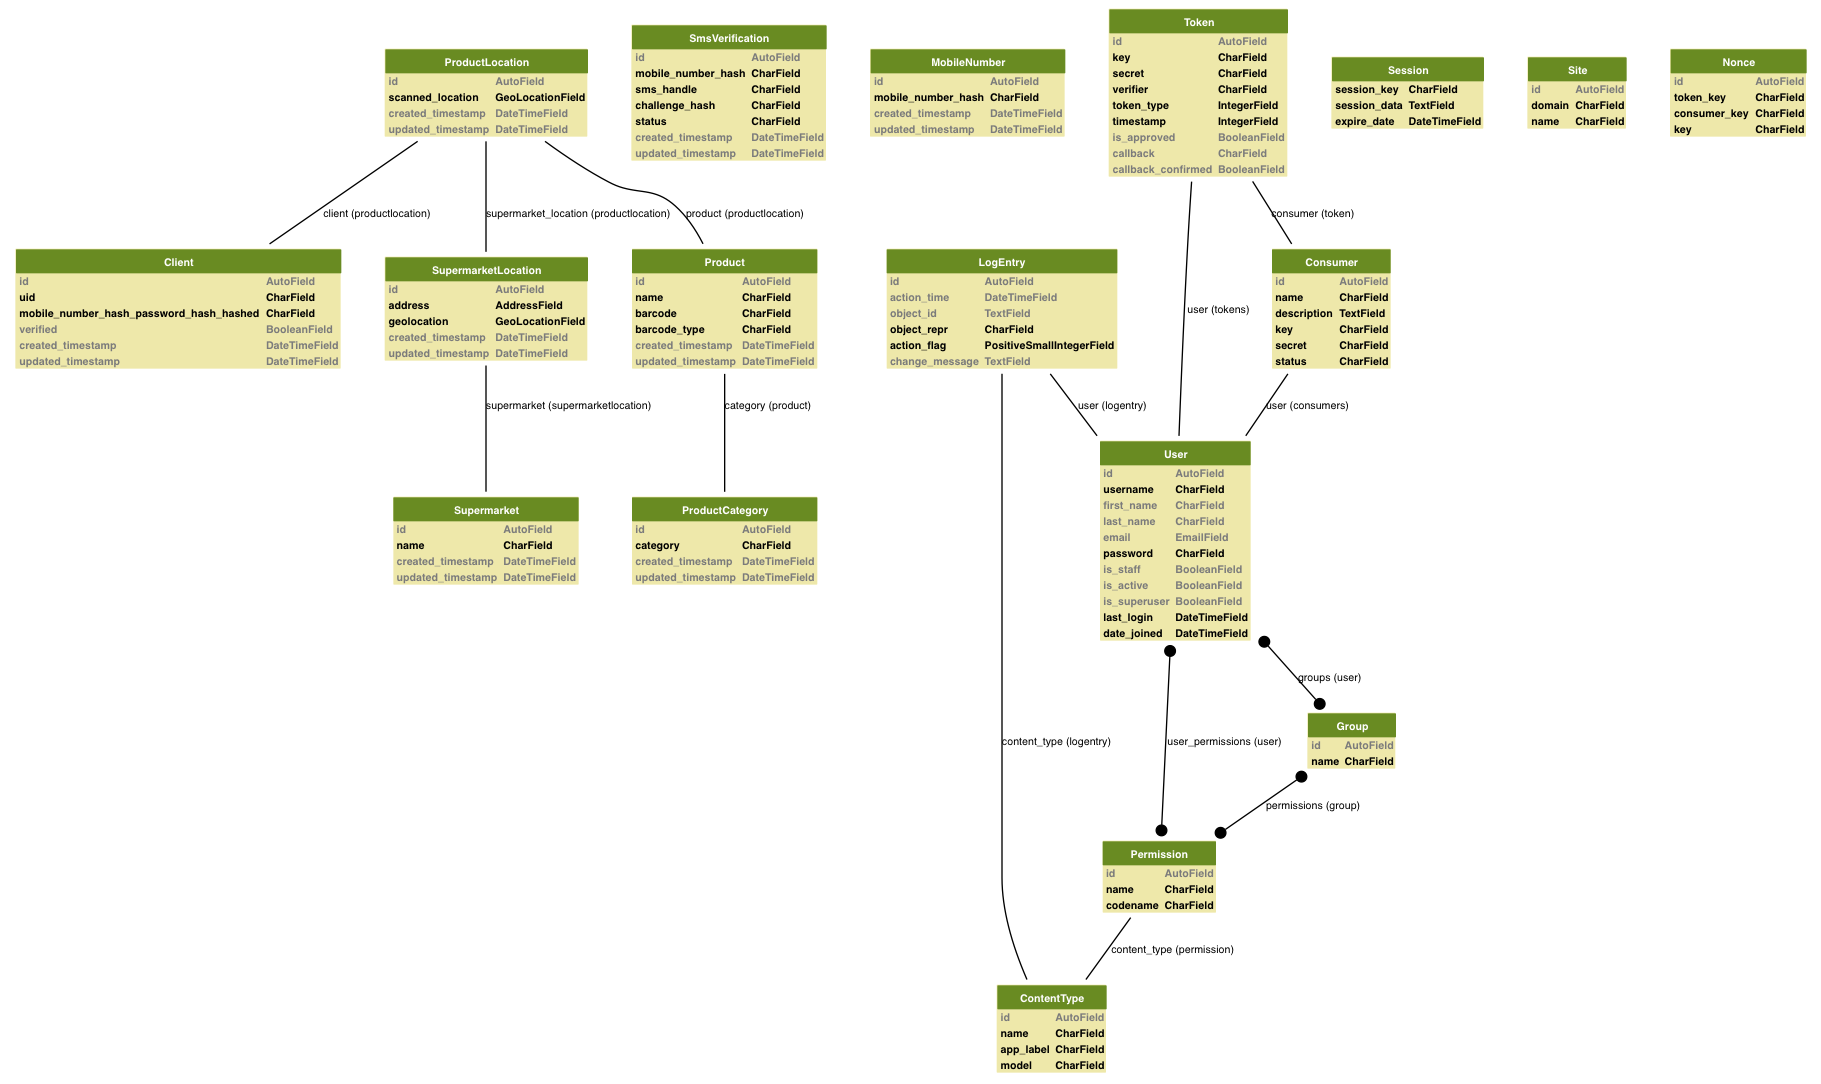
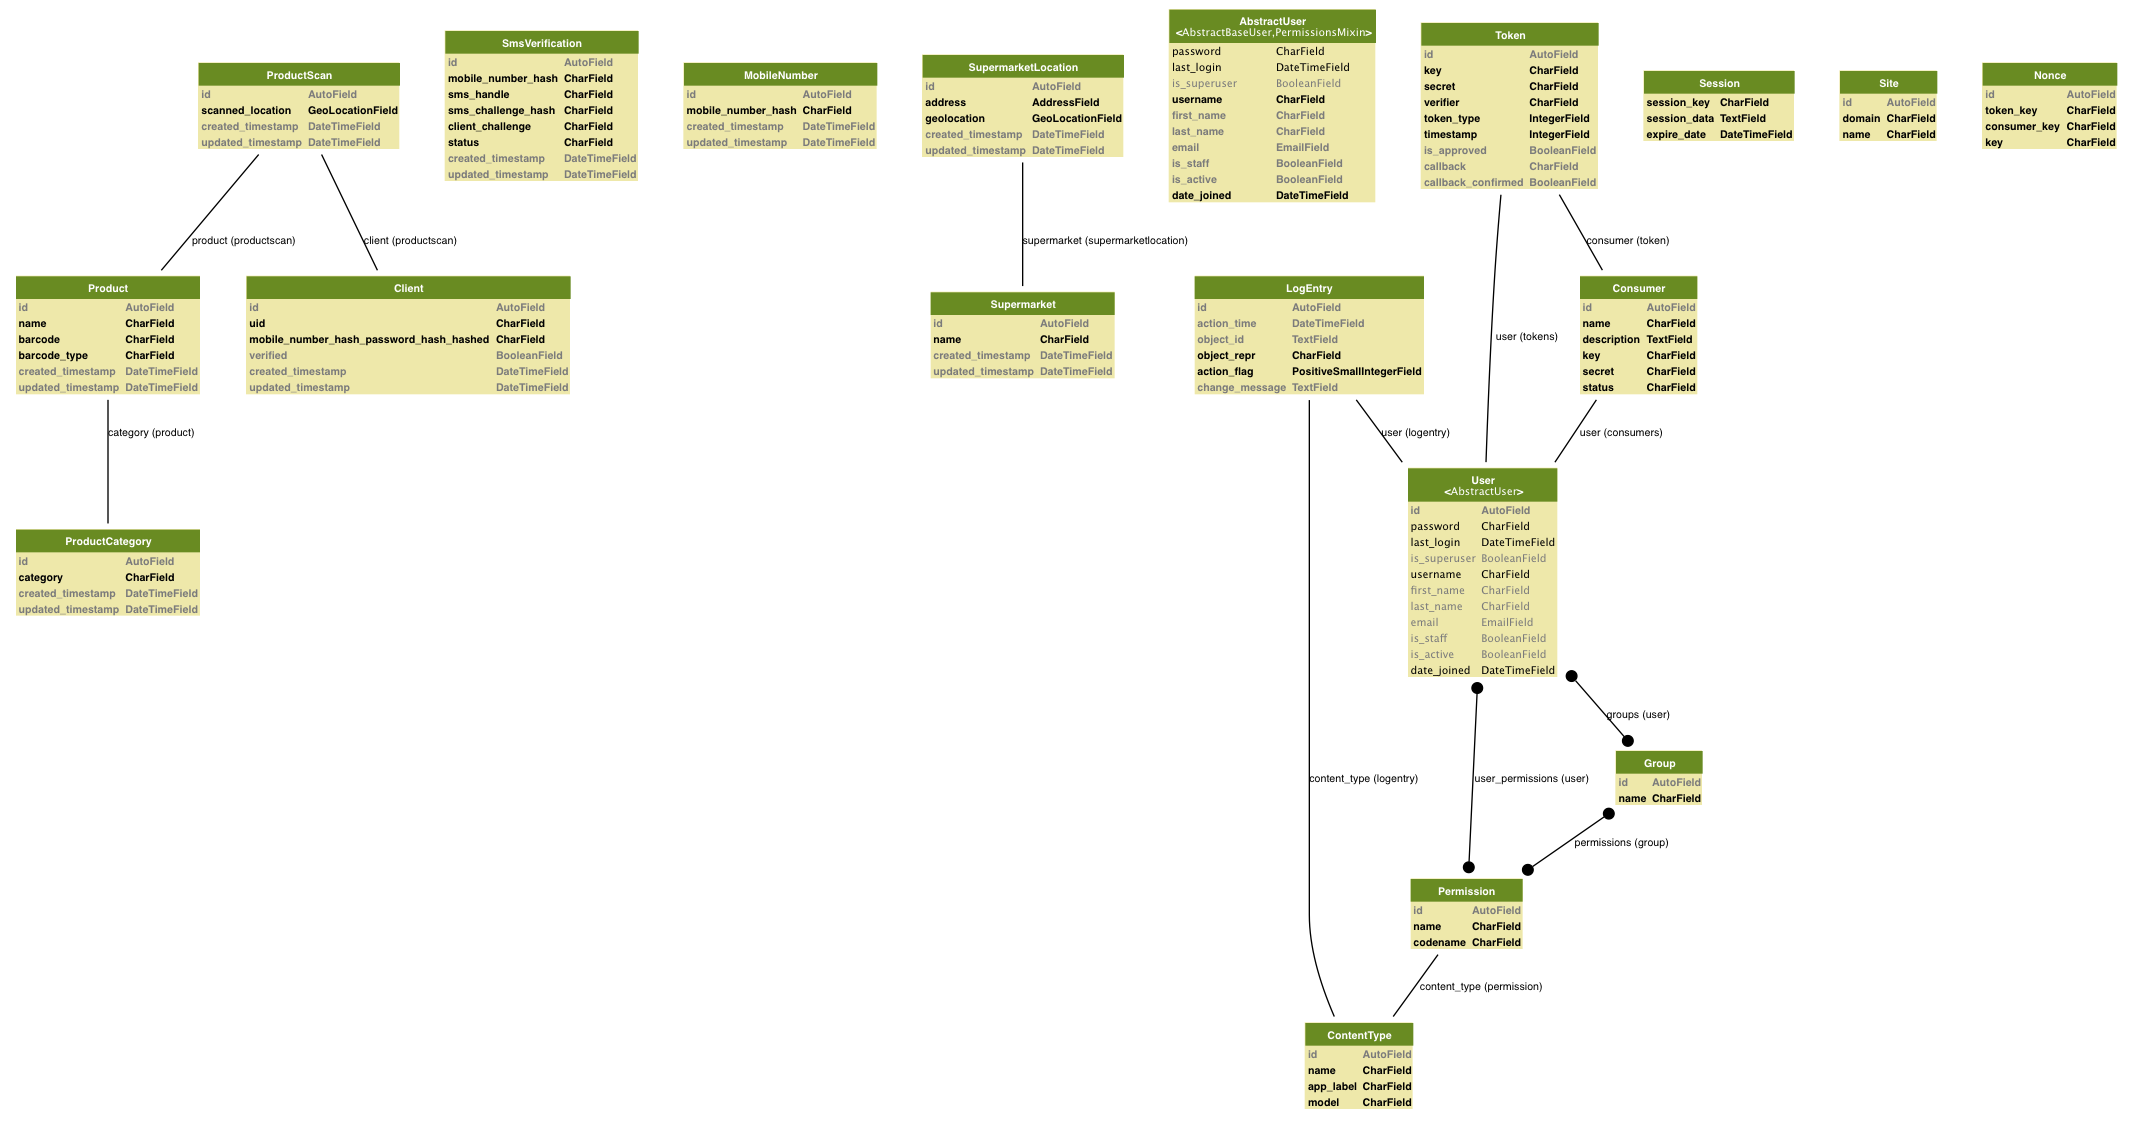
Product scan now knows nothing about supermarket location.

diff --git a/features/steps/product_steps.py b/features/steps/product_steps.py
@@ -38,7 +38,7 @@ import random
 @step(u'And I can contribute to the crowd database on an existing product')
 def and_i_can_contribute_to_crowd_database_on_an_existing_product(step):
     product = create_random_product()
-    api_handler.create_product_location(world.mobile_number, world.password, world.client_uid, product.barcode, products.BARCODE_TYPES.EAN13, "1.0, 2.0")
+    api_handler.create_product_scan(world.mobile_number, world.password, world.client_uid, product.barcode, products.BARCODE_TYPES.EAN13, "1.0, 2.0")
 
 @step(u'Then I cannot contribute to the crowd database on an existing product')
 def then_i_cannot_contribute_to_the_crowd_database_on_an_existing_product(step):
@@ -46,7 +46,7 @@ def then_i_cannot_contribute_to_the_crowd_database_on_an_existing_product(step):
     if world.client_uid is None:
         world.client_uid = clients.Client.objects.get_by_password(world.mobile_number, world.password)
     try:
-        api_handler.create_product_location(world.mobile_number, world.password, world.client_uid, product.barcode, products.BARCODE_TYPES.EAN13, "1.0, 2.0")
+        api_handler.create_product_scan(world.mobile_number, world.password, world.client_uid, product.barcode, products.BARCODE_TYPES.EAN13, "1.0, 2.0")
         raise BaseException("Was able to contribute even though not verified")
     except api_handler.WebserviceException:
         pass
@@ -57,7 +57,7 @@ def i_cannot_contribute_to_the_crowd_database_on_an_existing_product_with_non_ex
     world.client_uid = "UID_THAT_DOESNT_EXIST"
     product = create_random_product()
     try:
-        api_handler.create_product_location(world.mobile_number, world.password, world.client_uid, product.barcode, products.BARCODE_TYPES.EAN13, "1.0, 2.0")
+        api_handler.create_product_scan(world.mobile_number, world.password, world.client_uid, product.barcode, products.BARCODE_TYPES.EAN13, "1.0, 2.0")
         raise BaseException("Was able to contribute even though I don't exist!")
     except api_handler.WebserviceException:
         pass

diff --git a/etiktak/model/products/models.py b/etiktak/model/products/models.py
@@ -83,23 +83,22 @@ class Product(models.Model):
         verbose_name = u"Produkt"
         verbose_name_plural = u"Produkter"
 
-class ProductLocation(models.Model):
+class ProductScan(models.Model):
     product = models.ForeignKey(Product)
-    supermarket_location = models.ForeignKey(supermarkets.SupermarketLocation, null=True, default=None)
     scanned_location = map_fields.GeoLocationField(max_length=100)
     client = models.ForeignKey(clients.Client)
     created_timestamp = models.DateTimeField(auto_now_add=True)
     updated_timestamp = models.DateTimeField(auto_now=True)
 
     @staticmethod
-    def create_product_location(product, scanned_location, client):
+    def create_product_scan(product, scanned_location, client):
         """
         Creates and saves a product location for the specified product, scanned
         location and client and with created timestamp (=scanned timestamp) set to now.
         If client is not verified an exception is raised.
         """
         assert client.verified, "Client attempted to contribute though not verified"
-        location = ProductLocation(product=product, scanned_location=scanned_location, client=client)
+        location = ProductScan(product=product, scanned_location=scanned_location, client=client)
         location.save()
         return location
 
@@ -107,5 +106,5 @@ class ProductLocation(models.Model):
         return u"%s | %s" % (self.supermarket_location, self.scanned_location)
 
     class Meta:
-        verbose_name = u"Produktlokation"
-        verbose_name_plural = u"Produktlokationer"
+        verbose_name = u"Produktscanning"
+        verbose_name_plural = u"Produktscanninger"

diff --git a/etiktak/api/urls.py b/etiktak/api/urls.py
@@ -32,12 +32,12 @@ from piston.resource import Resource
 
 create_user_handler = Resource(ApplyUserHandler)
 verify_user_handler = Resource(VerifyUserHandler)
-create_product_location_handler = Resource(CreateProductLocationHandler)
+create_product_scan_handler = Resource(ScanProductHandler)
 sms_callback_handler = Resource(SmsCallbackHandler)
 
 urlpatterns = patterns('',
     url(r'^users/apply/(?P<mobile_number>[^/]+)/(?P<password>[^/]+)/$', create_user_handler, { 'emitter_format' : 'json' }),
     url(r'^users/verify/(?P<mobile_number>[^/]+)/(?P<password>[^/]+)/(?P<sms_challenge>[^/]+)/(?P<client_challenge>[^/]+)/$', verify_user_handler, { 'emitter_format' : 'json' }),
-    url(r'^products/scan_location/(?P<mobile_number>[^/]+)/(?P<password>[^/]+)/(?P<uid>[^/]+)/(?P<barcode>[^/]+)/(?P<barcode_type>[^/]+)/(?P<geo_location>[^/]+)/$', create_product_location_handler, { 'emitter_format' : 'json' }),
+    url(r'^products/scan_product/(?P<mobile_number>[^/]+)/(?P<password>[^/]+)/(?P<uid>[^/]+)/(?P<barcode>[^/]+)/(?P<barcode_type>[^/]+)/(?P<geo_location>[^/]+)/$', create_product_scan_handler, { 'emitter_format' : 'json' }),
     url(r'^sms/callback/$', sms_callback_handler, { 'emitter_format' : 'json' }),
 )

diff --git a/features/api_handler.py b/features/api_handler.py
@@ -35,7 +35,7 @@ from etiktak.api.request_handler import ApiResult
 
 APPLY_USER = "users/apply"
 VERIFY_USER = "users/verify"
-CREATE_PRODUCT_LOCATION_URL = "products/scan_location"
+CREATE_PRODUCT_SCAN_URL = "products/scan_product"
 SMS_CALLBACK_URL = "sms/callback"
 
 class WebserviceException(BaseException):
@@ -77,8 +77,8 @@ def verify_user(mobile_number, password, sms_challenge, client_challenge):
     verify_json_result(result, ApiResult.RESULT_OK)
     return result["uid"]
 
-def create_product_location(mobile_number, password, uid, barcode, barcode_type, geo_location):
-    call(CREATE_PRODUCT_LOCATION_URL, [mobile_number, password, uid, barcode, barcode_type, geo_location])
+def create_product_scan(mobile_number, password, uid, barcode, barcode_type, geo_location):
+    call(CREATE_PRODUCT_SCAN_URL, [mobile_number, password, uid, barcode, barcode_type, geo_location])
     result = json.loads(world.response.content)
     verify_json_result(result, ApiResult.RESULT_OK)
     return result

diff --git a/etiktak/service/product_service.py b/etiktak/service/product_service.py
@@ -28,10 +28,10 @@
 from etiktak.model.clients import models as clients
 from etiktak.model.products import models as products
 
-def create_product_location(mobile_number, password, uid, barcode, barcode_type, geo_location):
+def create_product_scan(mobile_number, password, uid, barcode, barcode_type, geo_location):
     client_by_password = clients.Client.objects.get_by_password(mobile_number, password)
     client = clients.Client.objects.get_by_uid(uid)
     assert client_by_password.uid == client.uid, "Incorrect credentials provided"
     product = products.Product.objects.get(barcode=barcode, barcode_type=barcode_type)
-    products.ProductLocation.create_product_location(product, geo_location, client)
+    products.ProductScan.create_product_scan(product, geo_location, client)
     print "Created product location for mobile number: %s and barcode: %s (%s)\n" % (mobile_number, barcode, barcode_type)

diff --git a/etiktak/api/product_handlers.py b/etiktak/api/product_handlers.py
@@ -26,6 +26,6 @@
 from etiktak.service import product_service
 from etiktak.api.request_handler import RequestHandler
 
-class CreateProductLocationHandler(RequestHandler):
+class ScanProductHandler(RequestHandler):
     def get(self, request, mobile_number=None, password=None, uid=None, barcode=None, barcode_type=None, geo_location=None):
-        product_service.create_product_location(mobile_number, password, uid, barcode, barcode_type, geo_location)
+        product_service.create_product_scan(mobile_number, password, uid, barcode, barcode_type, geo_location)
